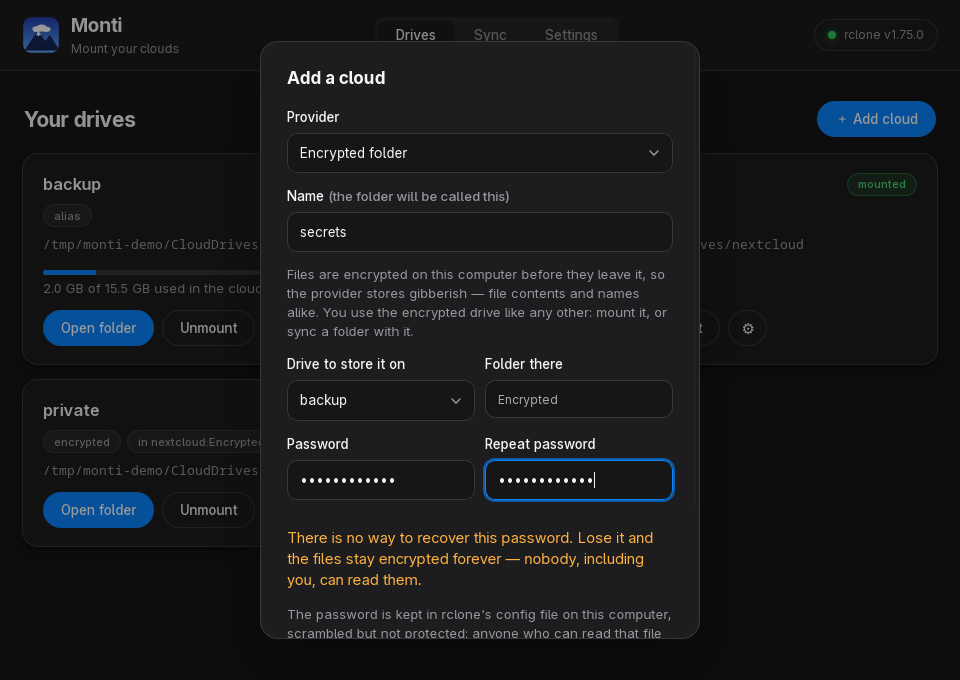
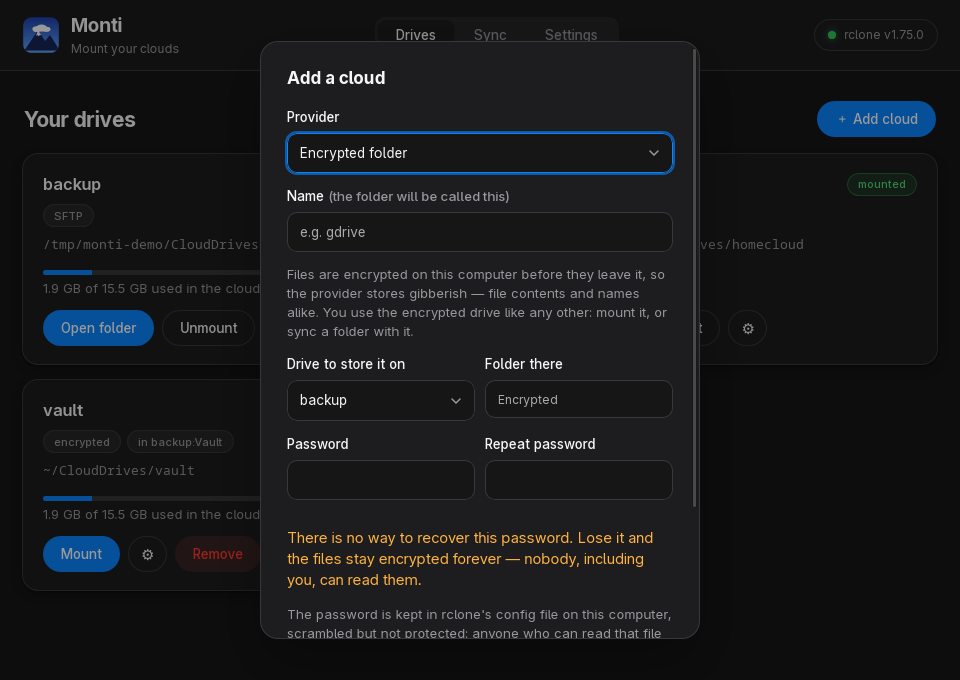
Photograph 0.9.1 instead of the version from a week ago
Every screenshot dated from before the single-column settings, the
aligned header and the six providers added since, so the README showed
an app nobody can download any more. The set is shot again on a private
display against two real servers on localhost — WebDAV and SFTP, with an
encrypted drive on top of the second — so the file listings, the sizes
and the sync history in them are things that actually happened.

diff --git a/README.md b/README.md
@@ -81,9 +81,10 @@ a way to use it without becoming an rclone expert. That is Monti.
 
 ## Screenshots
 
-Every picture below is a real run — a WebDAV server, a local drive and an
-encrypted drive on top of them. Light and dark alternate, because both are
-the same build: Monti follows the desktop unless you tell it otherwise.
+Every picture below is a real run of this version — a WebDAV server and an
+SFTP server on the same machine standing in for two clouds, with an encrypted
+drive on top of one of them. Light and dark alternate, because both are the
+same build: Monti follows the desktop unless you tell it otherwise.
 
 | | |
 |---|---|
